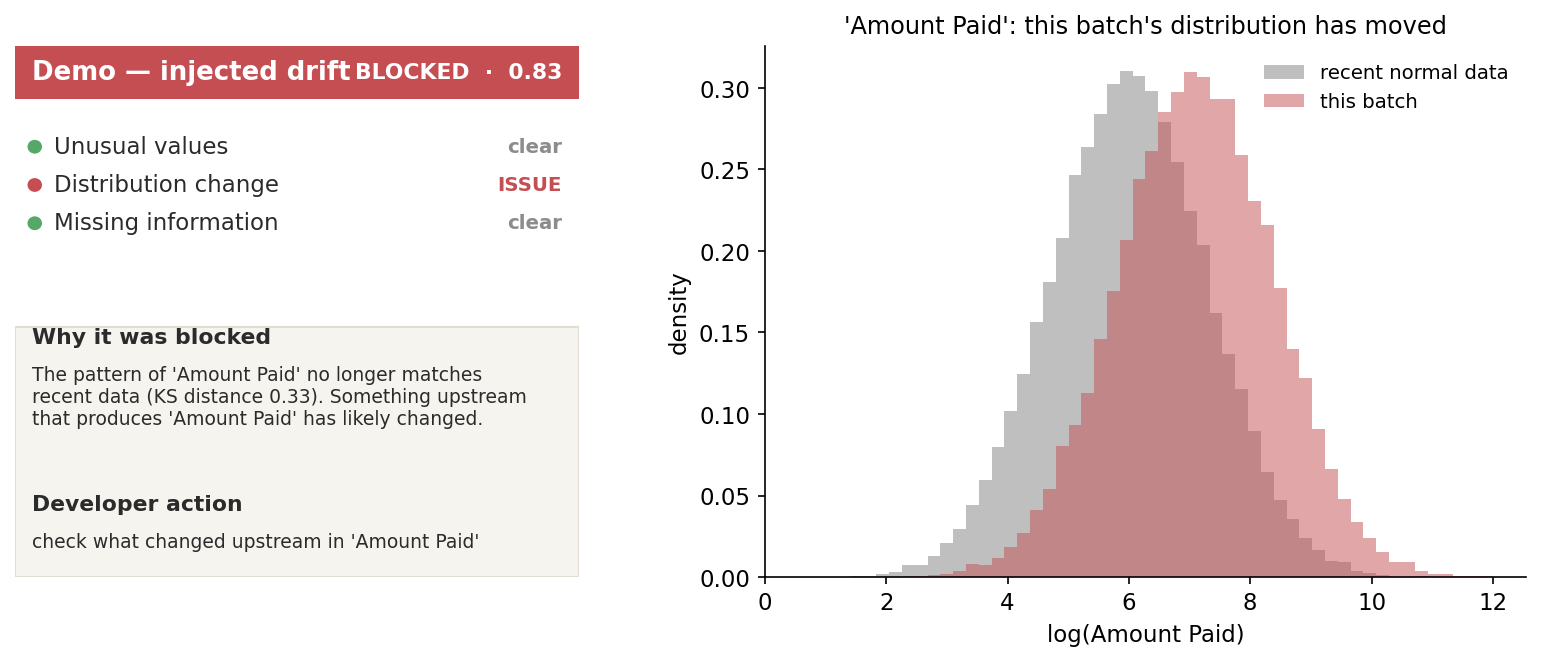
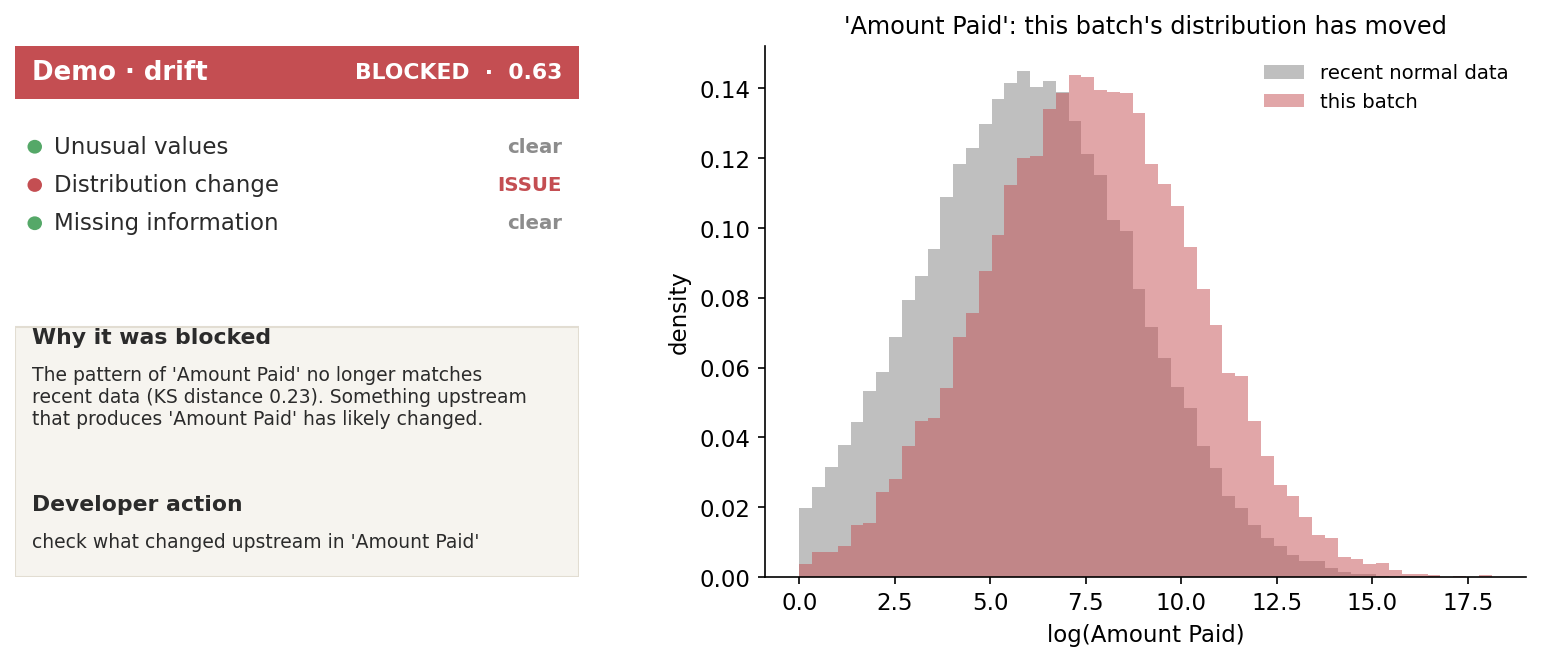
Fix fault reports: log-KS drift + consistent severity

diff --git a/src/diagnostics.py b/src/diagnostics.py
@@ -33,7 +33,7 @@ def _anomaly_findings(batch, reference, numeric_cols, z_thresh=5.0, frac_sig=0.0
         val = np.log1p(np.clip(batch[col].dropna().values, 0, None))
         frac = float((np.abs((val - ref.mean()) / ref.std()) > z_thresh).mean())
         if frac >= frac_sig:
-            sev = min(1.0, frac / (frac_sig * 4))
+            sev = 0.5 + 0.5 * min(1.0, (frac / frac_sig - 1) / 4)  # material finding -> [0.5, 1]
             out.append(dict(dimension="anomaly", column=col, severity=sev,
                             headline=f"{frac*100:.1f}% of '{col}' values are extreme outliers",
                             detail=f"{frac*100:.2f}% of rows in '{col}' sit more than {z_thresh:.0f} "
@@ -41,19 +41,25 @@ def _anomaly_findings(batch, reference, numeric_cols, z_thresh=5.0, frac_sig=0.0
     return out
 
 
-def _drift_findings(batch, reference, numeric_cols, ks_sig=0.15):
-    """Per-column KS distance between batch and reference distributions."""
+def _drift_findings(batch, reference, numeric_cols, ks_sig=0.1):
+    """
+    Per-column KS distance between batch and reference distributions.
+    The KS test is run on log1p(value): financial amounts are extremely heavy-tailed, so on
+    the raw scale a real multiplicative shift barely moves the statistic (the tail dominates
+    the range). Working on the log scale makes the test sensitive to genuine shifts and
+    matches the log-scale evidence chart.
+    """
     out = []
     for col in numeric_cols:
         if col not in batch.columns or col not in reference.columns:
             continue
-        ref = reference[col].dropna().values
-        cur = batch[col].dropna().values
+        ref = np.log1p(np.clip(reference[col].dropna().values, 0, None))
+        cur = np.log1p(np.clip(batch[col].dropna().values, 0, None))
         if len(ref) == 0 or len(cur) == 0:
             continue
         ks, _ = stats.ks_2samp(ref, cur)
         if ks >= ks_sig:
-            sev = min(1.0, ks / 0.4)
+            sev = 0.5 + 0.5 * min(1.0, (ks / ks_sig - 1) / 2)  # material finding -> [0.5, 1]
             out.append(dict(dimension="drift", column=col, severity=sev,
                             headline=f"'{col}' distribution has shifted (KS = {ks:.2f})",
                             detail=f"The pattern of '{col}' no longer matches recent data (KS distance {ks:.2f}). "
@@ -69,7 +75,7 @@ def _missing_findings(batch, columns, rate_sig=0.02):
             continue
         rate = float(batch[col].isna().mean())
         if rate >= rate_sig:
-            sev = min(1.0, rate / 0.20)
+            sev = 0.5 + 0.5 * min(1.0, (rate / rate_sig - 1) / 9)  # material finding -> [0.5, 1]
             out.append(dict(dimension="missing", column=col, severity=sev,
                             headline=f"{rate*100:.0f}% of '{col}' is missing",
                             detail=f"{rate*100:.1f}% of rows have no value for '{col}'. Downstream steps that "
@@ -78,7 +84,7 @@ def _missing_findings(batch, columns, rate_sig=0.02):
 
 
 def diagnose(batch, reference, numeric_cols, missing_cols, threshold=0.5,
-             z_thresh=5.0, frac_sig=0.005, ks_sig=0.15, rate_sig=0.02):
+             z_thresh=5.0, frac_sig=0.005, ks_sig=0.1, rate_sig=0.02):
     """
     Produce a human-readable fault report for one batch (see module docstring).
     numeric_cols : columns checked for anomalies + drift.
